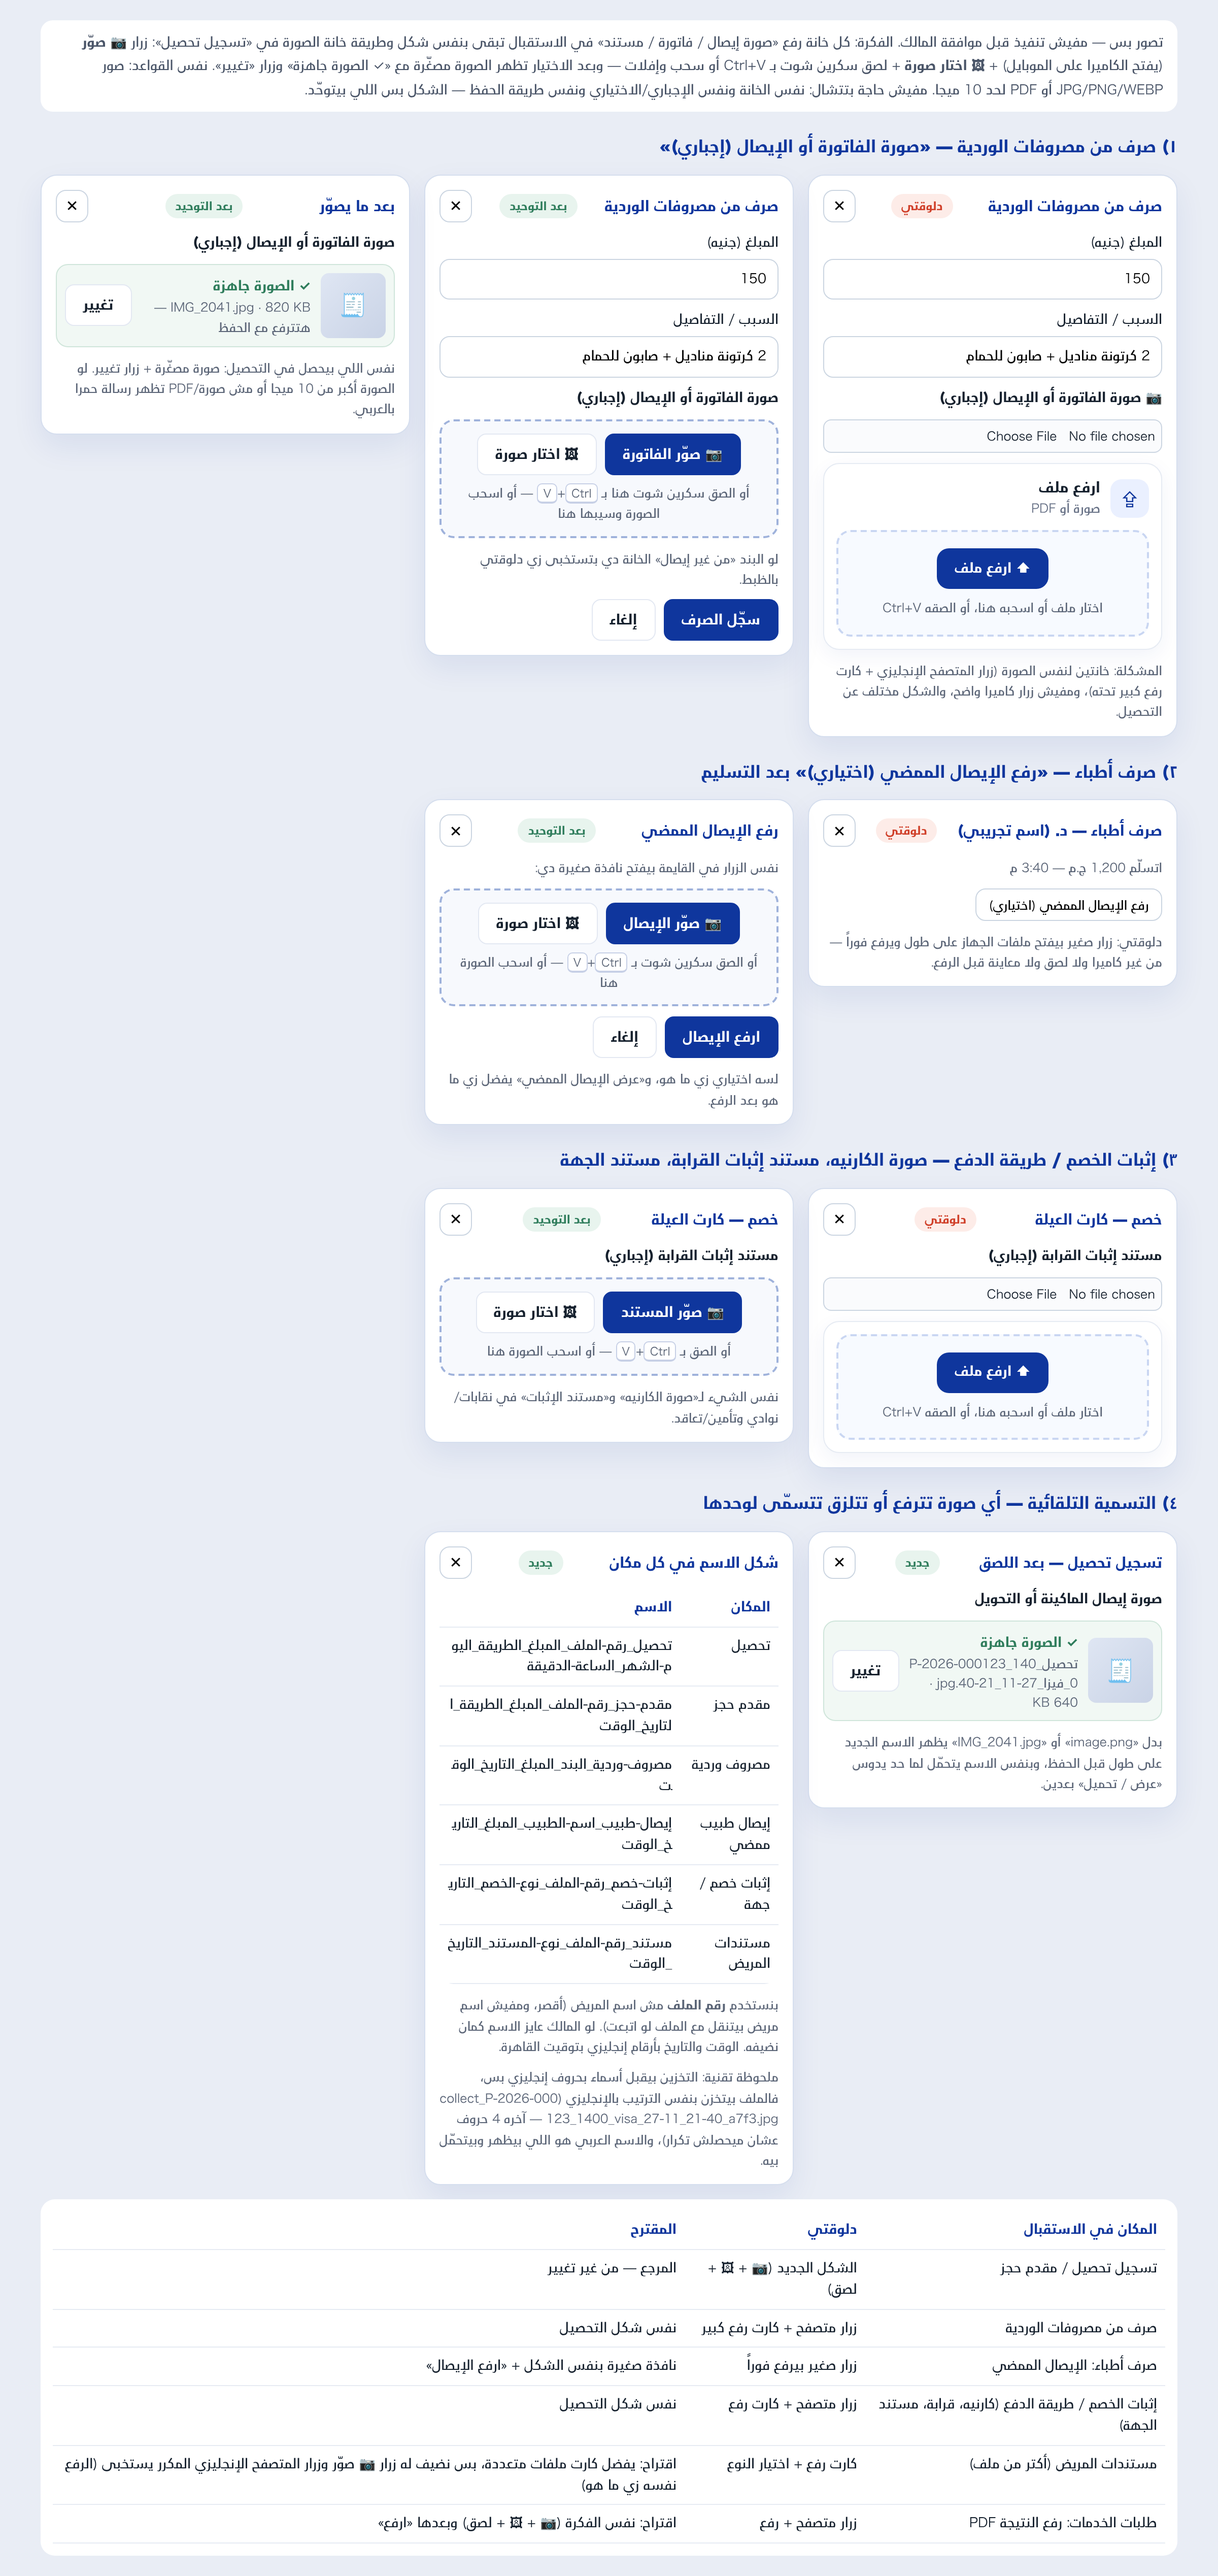
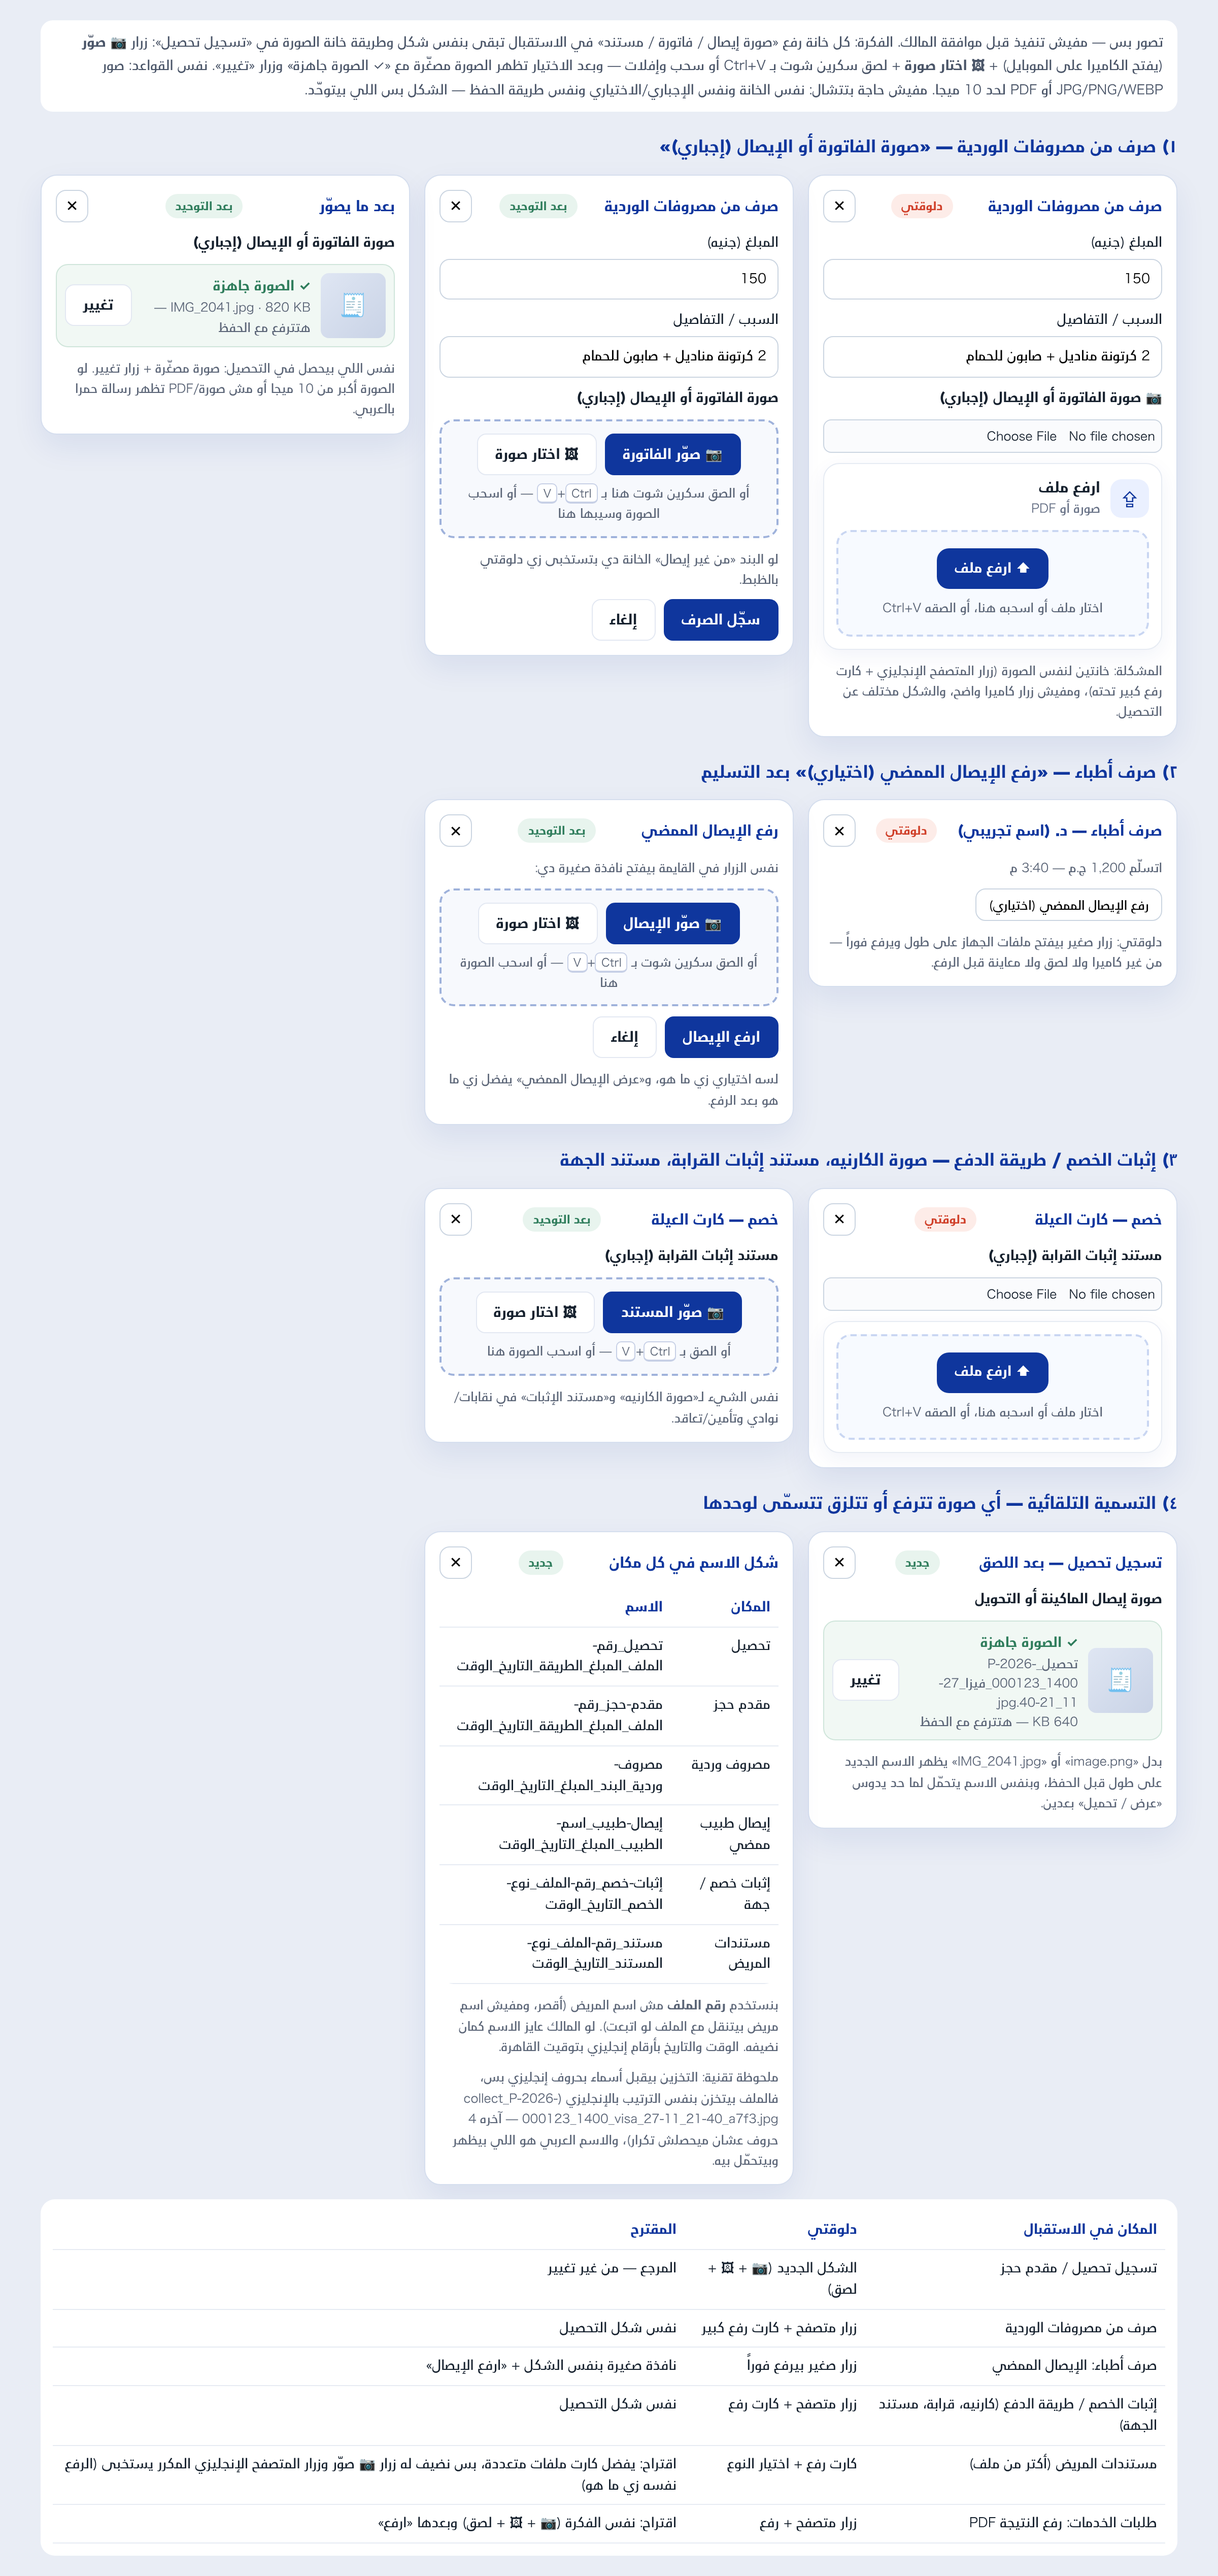
Mockup: auto-naming section polish + naming screenshot
Claude-Session: https://claude.ai/code/session_01UqVZHW6epYvnmo5ftQ9K3R

Changed region(s): [[0.375, 0.6228, 0.5625, 0.7785], [0.6562, 0.6228, 0.9688, 0.7162], [0.375, 0.8096, 0.4688, 0.8408]]

diff --git a/docs/ui-references/mockups/upload-unify.html b/docs/ui-references/mockups/upload-unify.html
@@ -31,7 +31,7 @@ h2.row{grid-column:1/-1;margin:8px 0 0;font-size:16px;color:#0F369D}
 .foot{display:flex;gap:8px;justify-content:flex-start}
 .tbl{grid-column:1/-1;background:#fff;border-radius:14px;padding:12px;overflow:auto}
 .tbl table{width:100%;border-collapse:collapse;font-size:13px}.tbl th,.tbl td{border-bottom:1px solid #E6EBF3;padding:8px;text-align:right;vertical-align:top}.tbl th{color:#0F369D}
-bdi{overflow-wrap:anywhere;word-break:break-all}.card,.tbl{min-width:0}.tbl td{overflow-wrap:anywhere}
+bdi{overflow-wrap:anywhere}.card,.tbl{min-width:0}.tbl td{overflow-wrap:anywhere}
 </style></head><body><div class="wrap">
 <p class="eyebrow">تصور بس — مفيش تنفيذ قبل موافقة المالك. الفكرة: كل خانة رفع «صورة إيصال / فاتورة / مستند» في الاستقبال تبقى بنفس شكل وطريقة خانة الصورة في «تسجيل تحصيل»: زرار <b>📷 صوّر</b> (يفتح الكاميرا على الموبايل) + <b>🖼 اختار صورة</b> + لصق سكرين شوت بـ Ctrl+V أو سحب وإفلات — وبعد الاختيار تظهر الصورة مصغّرة مع «✓ الصورة جاهزة» وزرار «تغيير». نفس القواعد: صور JPG/PNG/WEBP أو PDF لحد 10 ميجا. مفيش حاجة بتتشال: نفس الخانة ونفس الإجباري/الاختياري ونفس طريقة الحفظ — الشكل بس اللي بيتوحّد.</p>
 
@@ -89,12 +89,12 @@ bdi{overflow-wrap:anywhere;word-break:break-all}.card,.tbl{min-width:0}.tbl td{o
 <h2 class="row">٤) التسمية التلقائية — أي صورة تترفع أو تتلزق تتسمّى لوحدها</h2>
 <section class="card"><header><h3>تسجيل تحصيل — بعد اللصق</h3><span class="tag a">جديد</span><button class="x" aria-label="قفل">✕</button></header>
 <span class="lbl">صورة إيصال الماكينة أو التحويل</span>
-<div class="pp-done"><span class="th">🧾</span><div><b>✓ الصورة جاهزة</b><small><bdi>تحصيل_P-2026-000123_1400_فيزا_27-11_21-40.jpg</bdi> · 640 KB</small></div><button class="btn">تغيير</button></div>
+<div class="pp-done"><span class="th">🧾</span><div><b>✓ الصورة جاهزة</b><small><bdi dir="rtl">تحصيل_P-2026-000123_1400_فيزا_27-11_21-40.jpg</bdi><br>640 KB — هتترفع مع الحفظ</small></div><button class="btn">تغيير</button></div>
 <p class="note">بدل «image.png» أو «IMG_2041.jpg» يظهر الاسم الجديد على طول قبل الحفظ، وبنفس الاسم يتحمّل لما حد يدوس «عرض / تحميل» بعدين.</p>
 </section>
 <section class="card"><header><h3>شكل الاسم في كل مكان</h3><span class="tag a">جديد</span><button class="x" aria-label="قفل">✕</button></header>
 <div class="tbl" style="padding:0"><table><thead><tr><th>المكان</th><th>الاسم</th></tr></thead><tbody>
-<tr><td>تحصيل</td><td><bdi>تحصيل_رقم-الملف_المبلغ_الطريقة_اليوم-الشهر_الساعة-الدقيقة</bdi></td></tr>
+<tr><td>تحصيل</td><td><bdi>تحصيل_رقم-الملف_المبلغ_الطريقة_التاريخ_الوقت</bdi></td></tr>
 <tr><td>مقدم حجز</td><td><bdi>مقدم-حجز_رقم-الملف_المبلغ_الطريقة_التاريخ_الوقت</bdi></td></tr>
 <tr><td>مصروف وردية</td><td><bdi>مصروف-وردية_البند_المبلغ_التاريخ_الوقت</bdi></td></tr>
 <tr><td>إيصال طبيب ممضي</td><td><bdi>إيصال-طبيب_اسم-الطبيب_المبلغ_التاريخ_الوقت</bdi></td></tr>
